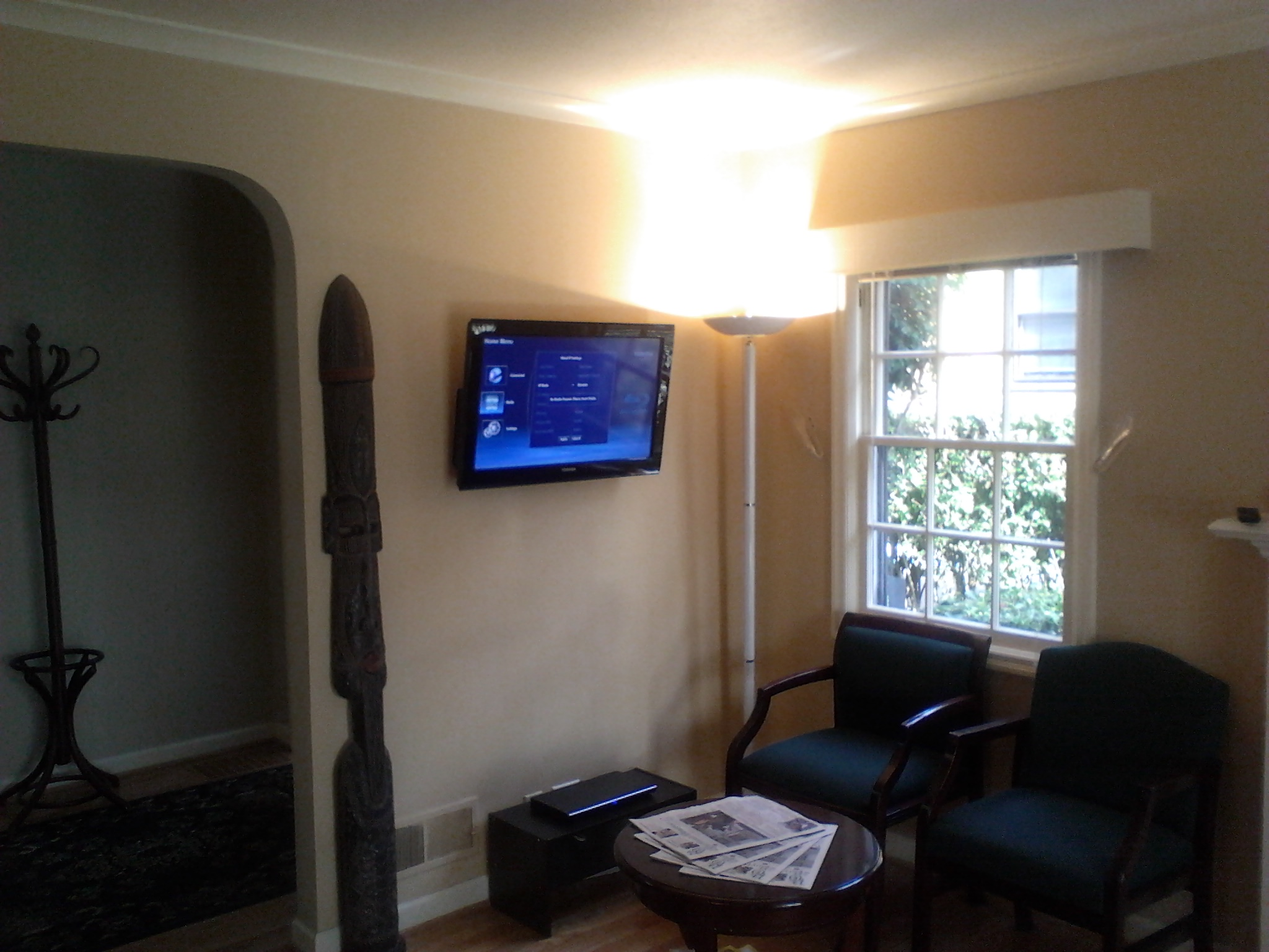
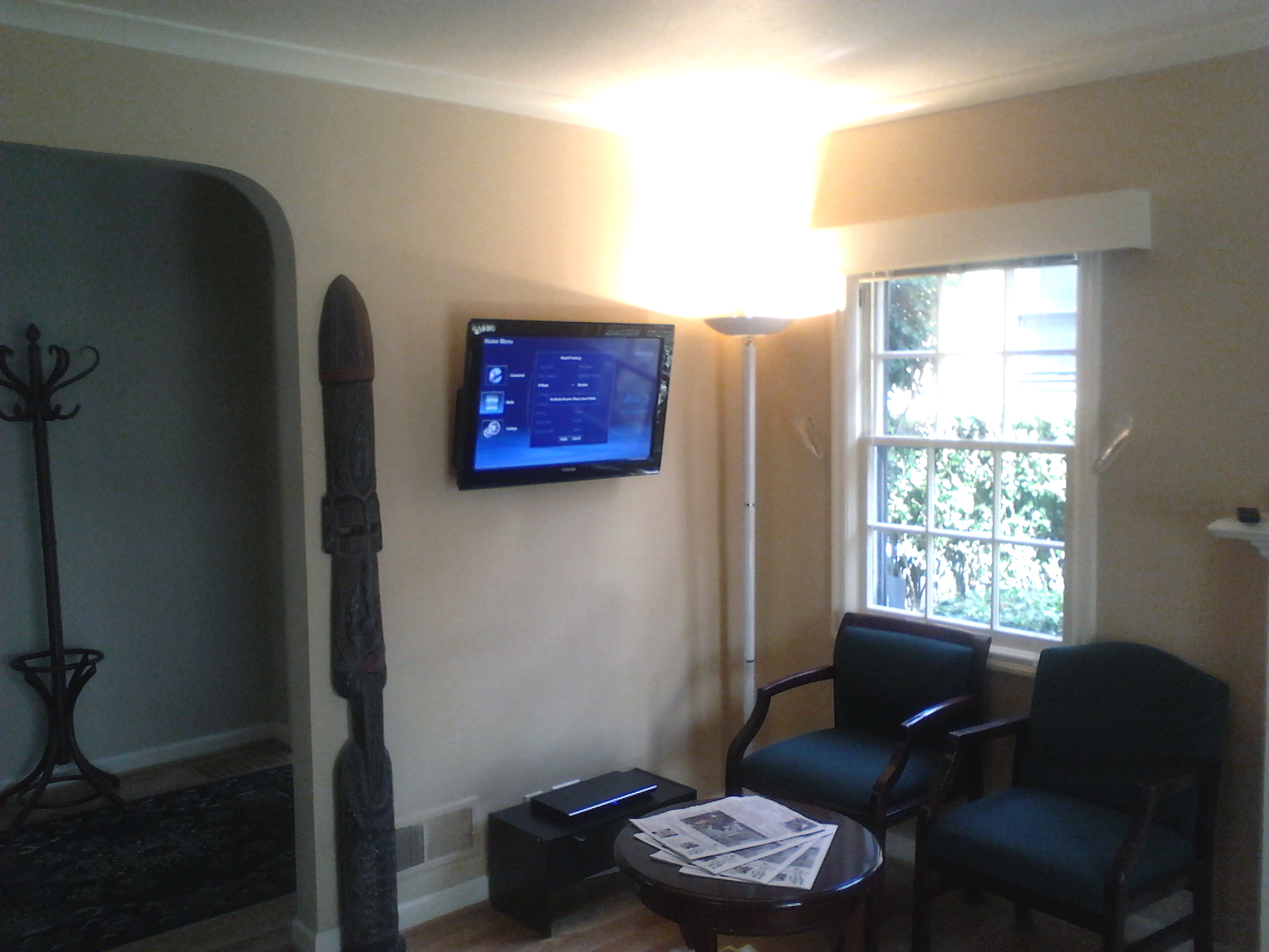
Images cleaned up in photoshop / Who We Are update

diff --git a/who_we_are.html b/who_we_are.html
@@ -63,10 +63,11 @@
 				the job is done right the first time. <br/>
 				SLT Telecom has built a reputation for being number one in customer 
 				service in the Northwest.  We began by serving the Portland area and now 
-				have expanded into Washington.  </p>
-				<p class='grid_6 alpha'>Our attention to detail, extensive training and superior service makes 
+				have expanded into Washington.  <br/>
+				Our attention to detail, extensive training and superior service makes 
 				us a leader in ever evolving technical world. We are proud to utilize one 
-				of the most extensive installer training programs in the country. Our 
+				of the most extensive </p>
+				<p class='grid_6 alpha'>installer training programs in the country. Our 
 				installers are required to participate in continuing education so that 
 				we can stay on the cutting edge of technology in today's rapidly changing 
 				industry; this is one of many reasons why our work history includes 50,000 
